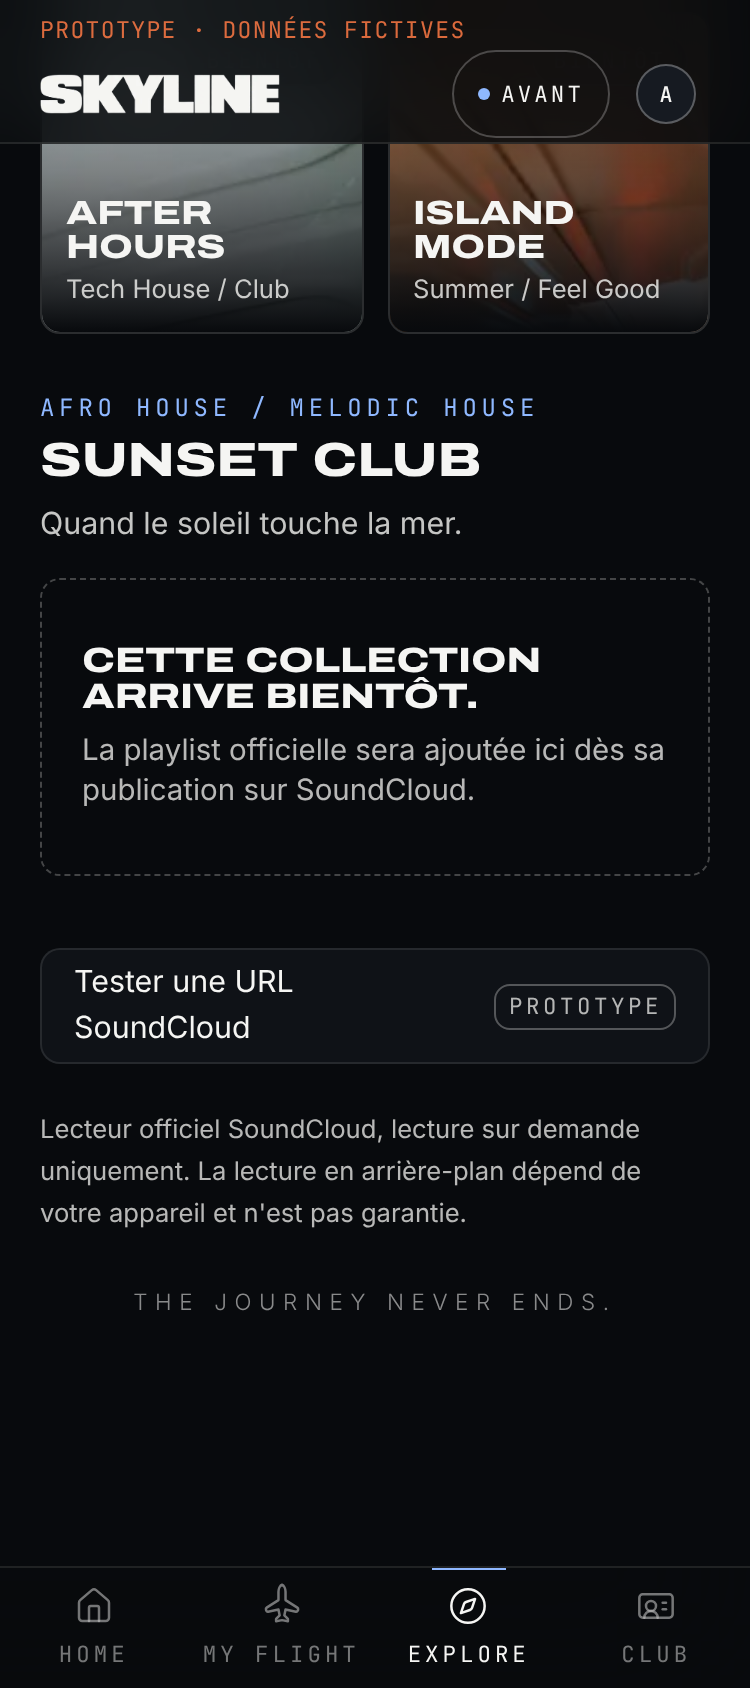
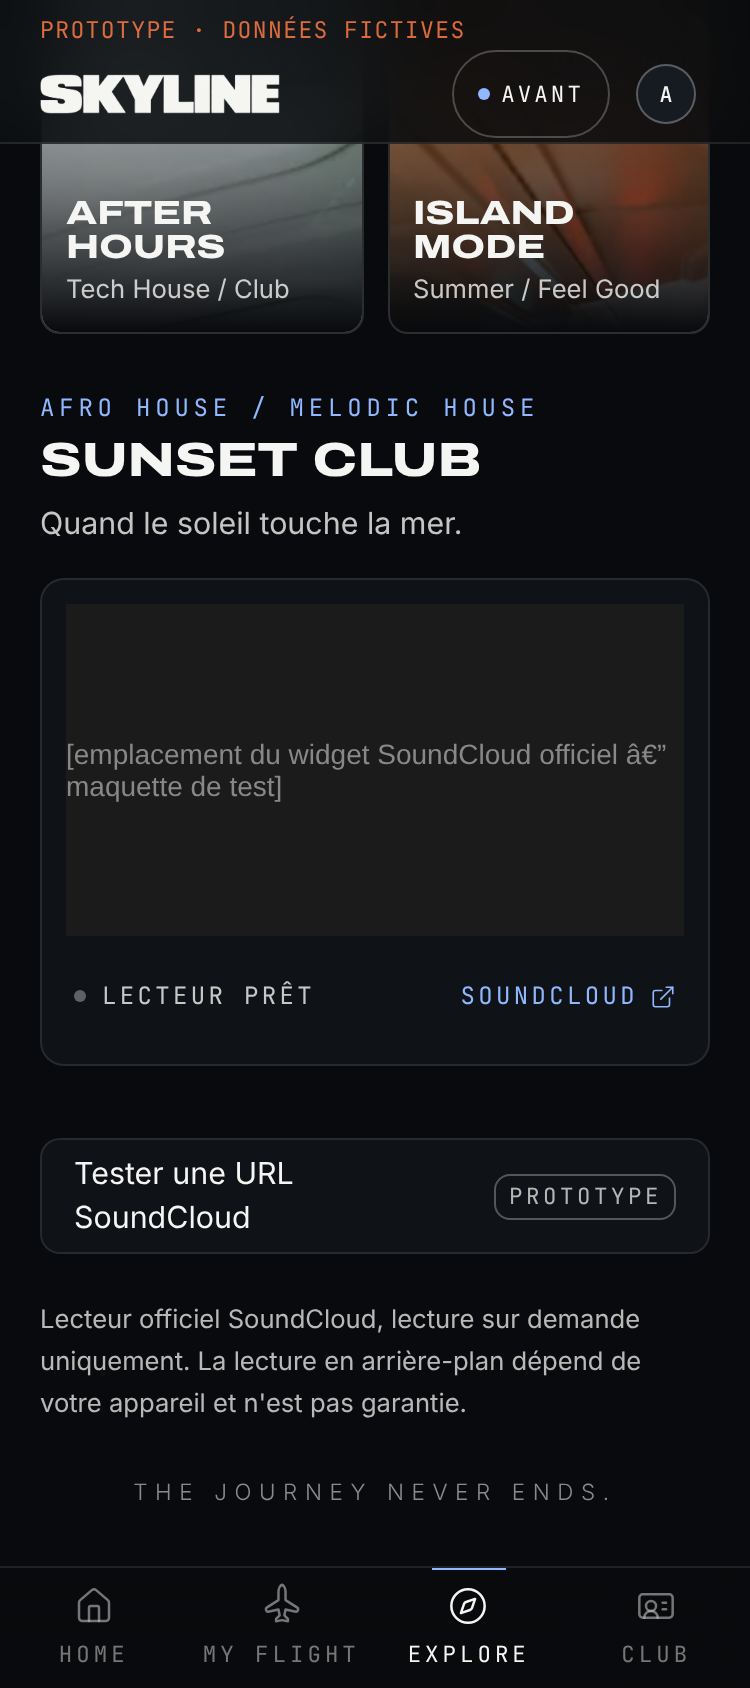
feat(sound): lecteur SoundCloud compact (visual=false, 166 px) dans une carte sobre
Claude-Session: https://claude.ai/code/session_018yowc2fZK8CGvXNuJgwN62

diff --git a/src/components/v3/SoundCloudEmbed.tsx b/src/components/v3/SoundCloudEmbed.tsx
@@ -48,19 +48,19 @@ export function SoundCloudEmbed({ url, kind, title, onPlay }: { url: string; kin
 
   const h = embedHeight(kind);
   return (
-    <div>
-      <div className="relative overflow-hidden rounded-[10px] border border-cloud/15 bg-surface-1" style={{ minHeight: h }}>
+    <div className="rounded-[12px] border border-line bg-surface-1 p-3">
+      <div className="relative" style={{ minHeight: h }}>
         <iframe ref={frame} title={`Lecteur SoundCloud — ${title}`} src={embedSrc(url)} width="100%" height={h} loading="lazy" allow="encrypted-media" className="block w-full border-0" />
-        {status === "loading" && <div aria-hidden className="pointer-events-none absolute inset-0 grid place-items-center bg-surface-1/80 font-mono text-[0.75rem] uppercase tracking-[0.16em] text-cloud/70 motion-safe:animate-pulse">Chargement…</div>}
+        {status === "loading" && <div aria-hidden className="pointer-events-none absolute inset-0 grid place-items-center bg-surface-1 font-mono text-[0.75rem] uppercase tracking-[0.16em] text-cloud/70 motion-safe:animate-pulse">Chargement…</div>}
         {status === "error" && (
-          <div role="alert" className="absolute inset-0 flex flex-col items-start justify-center gap-3 bg-surface-1 p-5">
+          <div role="alert" className="absolute inset-0 flex flex-col items-start justify-center gap-3 bg-surface-1 p-2">
             <p className="font-display text-[1.05rem]">Le lecteur n&apos;a pas pu se charger.</p>
             <p className="text-[0.9rem] leading-snug text-cloud/75">Vérifiez votre connexion. Certaines playlists ne sont lisibles que sur SoundCloud.</p>
             <a href={url} target="_blank" rel="noopener noreferrer" className="inline-flex min-h-11 items-center gap-2 rounded-full bg-cloud px-5 font-mono text-[0.75rem] uppercase tracking-[0.14em] text-jet">Écouter sur SoundCloud <ExternalLink size={14} strokeWidth={1.75} aria-hidden /></a>
           </div>
         )}
       </div>
-      <div className="mt-3 flex items-center justify-between gap-3">
+      <div className="mt-2 flex items-center justify-between gap-3 px-1">
         <p role="status" aria-live="polite" className="flex items-center gap-2 font-mono text-[0.75rem] uppercase tracking-[0.14em] text-cloud/80"><span aria-hidden className={`size-1.5 rounded-full ${status === "playing" ? "bg-sky" : status === "error" ? "bg-sunset" : "bg-cloud/35"}`} />{label[status]}</p>
         <a href={url} target="_blank" rel="noopener noreferrer" className="inline-flex min-h-11 items-center gap-1.5 font-mono text-[0.75rem] uppercase tracking-[0.14em] text-sky">SoundCloud <ExternalLink size={13} strokeWidth={1.5} aria-hidden /></a>
       </div>

diff --git a/src/domain/sound.ts b/src/domain/sound.ts
@@ -22,9 +22,16 @@ export function parseSoundCloudUrl(input: string | null | undefined): ParsedSoun
 
 /** URL de l'iframe du widget officiel. Jamais de lecture automatique ; éléments SoundCloud conservés (pas de masquage). */
 export function embedSrc(url: string): string {
-  const p = new URLSearchParams({ url, color: "#8FB8FF", auto_play: "false", hide_related: "true", show_comments: "false", show_user: "true", show_reposts: "false", show_teaser: "true", visual: "false" });
+  // Paramètres officiels du widget : version « classique » compacte (visual=false), accent Sky Blue, sans commentaires,
+  // sans suggestions, sans actions annexes. Titre, artiste, logo et lien SoundCloud restent affichés par le widget lui-même.
+  const p = new URLSearchParams({ url, color: "#8FB8FF", auto_play: "false", visual: "false", hide_related: "true", show_comments: "false", show_user: "true", show_reposts: "false", show_teaser: "false", show_playcount: "false", buying: "false", liking: "false", download: "false", sharing: "false" });
   return `https://w.soundcloud.com/player/?${p.toString()}`;
 }
 
-/** Hauteur recommandée par SoundCloud : 166 px pour un titre, plus haute pour afficher la liste d'une playlist. */
-export const embedHeight = (kind: EmbedKind) => (kind === "set" ? 380 : kind === "track" ? 166 : 300);
+/**
+ * Hauteur du lecteur compact officiel : 166 px (hauteur standard du widget classique d'un titre).
+ * Pour une playlist, SoundCloud décide seul de ce qu'il affiche à cette hauteur : nous ne recadrons ni ne recouvrons jamais le widget.
+ */
+export const COMPACT_HEIGHT = 166;
+// eslint-disable-next-line @typescript-eslint/no-unused-vars
+export const embedHeight = (_kind?: EmbedKind) => COMPACT_HEIGHT;
